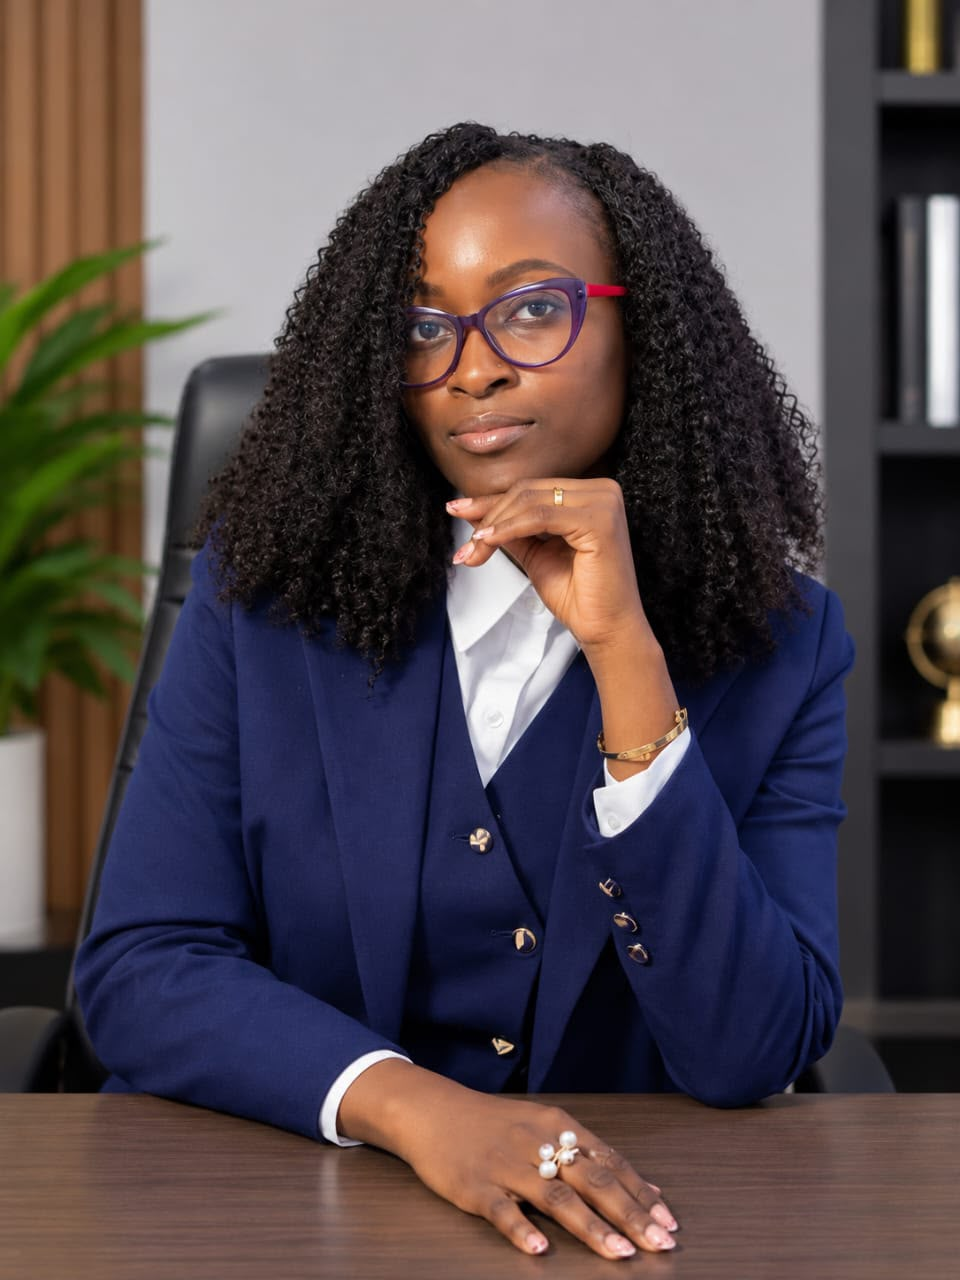
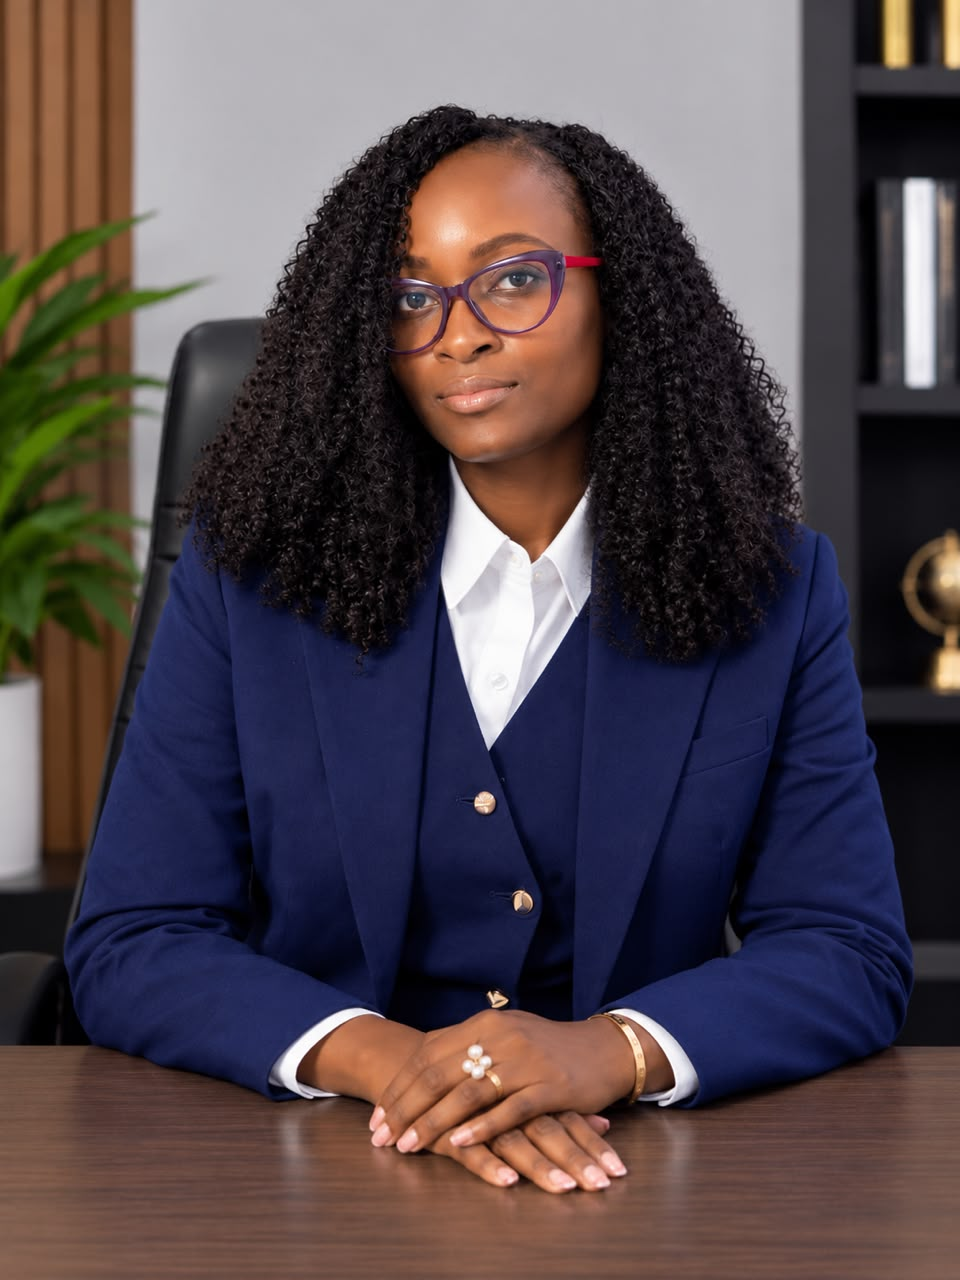
Update personnel portraits and titles

diff --git a/about.html b/about.html
@@ -202,15 +202,15 @@
               </article>
               <article class="people-card" data-reveal>
                 <div class="people-card-media"><img class="people-card-photo" src="assets/joyce-igheghe.jpg" alt="Portrait of Joyce Igheghe" loading="lazy" decoding="async" /></div>
-                <div class="people-card-body"><p class="people-card-role">GCOO</p><h4>Joyce Igheghe</h4></div>
+                <div class="people-card-body"><p class="people-card-role">General Executive Director (GED)</p><h4>Joyce Igheghe</h4></div>
+              </article>
+              <article class="people-card" data-reveal>
+                <div class="people-card-media"><img class="people-card-photo" src="assets/esther-adeleke-chukwudi.jpg" alt="Portrait of Bar. Esther Adeleke-Chukwudi" loading="lazy" decoding="async" /></div>
+                <div class="people-card-body"><p class="people-card-role">Executive Assistant to the Chairman (EA) &amp; Company Secretary</p><h4>Bar. Esther Adeleke-Chukwudi</h4></div>
               </article>
               <article class="people-card" data-reveal>
                 <div class="people-card-media"><img class="people-card-photo" src="assets/chinyere-adeniji.jpg" alt="Portrait of Chinyere Adeniji" loading="lazy" decoding="async" /></div>
                 <div class="people-card-body"><p class="people-card-role">GHR</p><h4>Chinyere Adeniji</h4></div>
-              </article>
-              <article class="people-card" data-reveal>
-                <div class="people-card-media"><img class="people-card-photo" src="assets/esther-adeleke-chukwudi.jpg" alt="Portrait of Bar. Esther Adeleke-Chukwudi" loading="lazy" decoding="async" /></div>
-                <div class="people-card-body"><p class="people-card-role">PA &amp; Company Secretary</p><h4>Bar. Esther Adeleke-Chukwudi</h4></div>
               </article>
             </div>
           </div>
@@ -221,7 +221,7 @@
             <div class="people-grid people-grid--delivery">
               <article class="people-card" data-reveal><div class="people-card-media"><img class="people-card-photo" src="assets/olajubutu-gbenga.jpg" alt="Portrait of Arc. Olajubutu Gbenga" loading="lazy" decoding="async" /></div><div class="people-card-body"><p class="people-card-role">Project Executive</p><h4>Arc. Olajubutu Gbenga</h4></div></article>
               <article class="people-card" data-reveal><div class="people-card-media" aria-hidden="true"><span class="people-card-initials">OO</span></div><div class="people-card-body"><p class="people-card-role">Strategy, Design &amp; Development Partner</p><h4>Arc. Olayinka Ohi</h4></div></article>
-              <article class="people-card" data-reveal><div class="people-card-media" aria-hidden="true"><span class="people-card-initials">EO</span></div><div class="people-card-body"><p class="people-card-role">Head, Quantity Surveying &amp; Cost Management</p><h4>QS Esther Olasemeji</h4></div></article>
+              <article class="people-card" data-reveal><div class="people-card-media"><img class="people-card-photo" src="assets/esther-olasemeji.jpg" alt="Portrait of QS Esther Olasemeji" loading="lazy" decoding="async" /></div><div class="people-card-body"><p class="people-card-role">Head, Quantity Surveying &amp; Cost Management</p><h4>QS Esther Olasemeji</h4></div></article>
               <article class="people-card" data-reveal><div class="people-card-media" aria-hidden="true"><span class="people-card-initials">KO</span></div><div class="people-card-body"><p class="people-card-role">Project Manager</p><h4>Engr. Kolade Onanlopo</h4></div></article>
               <article class="people-card" data-reveal><div class="people-card-media"><img class="people-card-photo" src="assets/akinwale-desmond.jpg" alt="Portrait of Akinwale Desmond" loading="lazy" decoding="async" /></div><div class="people-card-body"><p class="people-card-role">Property Consultant<br />(Special Advisor on Special Project)</p><h4>Akinwale Desmond</h4></div></article>
               <article class="people-card" data-reveal><div class="people-card-media"><img class="people-card-photo" src="assets/oluwaseun-adeniji.webp" alt="Portrait of Oluwaseun Adeniji" loading="lazy" decoding="async" /></div><div class="people-card-body"><p class="people-card-role">Admin/Procurement Executive</p><h4>Oluwaseun Adeniji</h4></div></article>

diff --git a/styles.css b/styles.css
@@ -925,12 +925,12 @@ h2 span {
 .people-card-media {
   position: relative;
   display: grid;
-  aspect-ratio: 1.25 / 1;
+  aspect-ratio: 4 / 5;
   place-items: center;
   overflow: hidden;
   background: radial-gradient(circle at 50% 38%, rgb(190 144 56 / 18%), transparent 48%), linear-gradient(145deg, #e1ddd4, #f8f7f3 62%, #ddd8cd);
 }
-.people-card-photo { position: absolute; inset: 0; width: 100%; height: 100%; object-fit: cover; object-position: center 25%; }
+.people-card-photo { position: absolute; inset: 0; width: 100%; height: 100%; object-fit: cover; object-position: center top; }
 .people-card-initials {
   display: grid;
   width: clamp(66px, 7.1vw, 90px);
